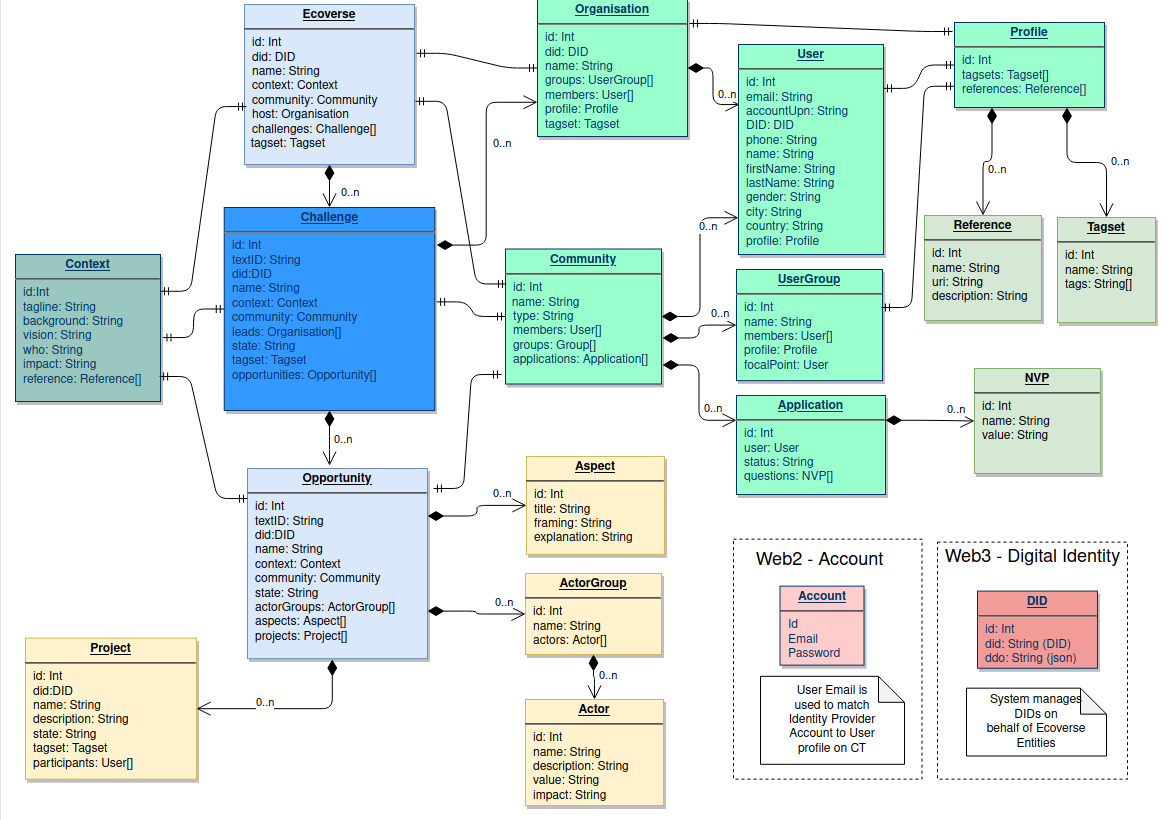
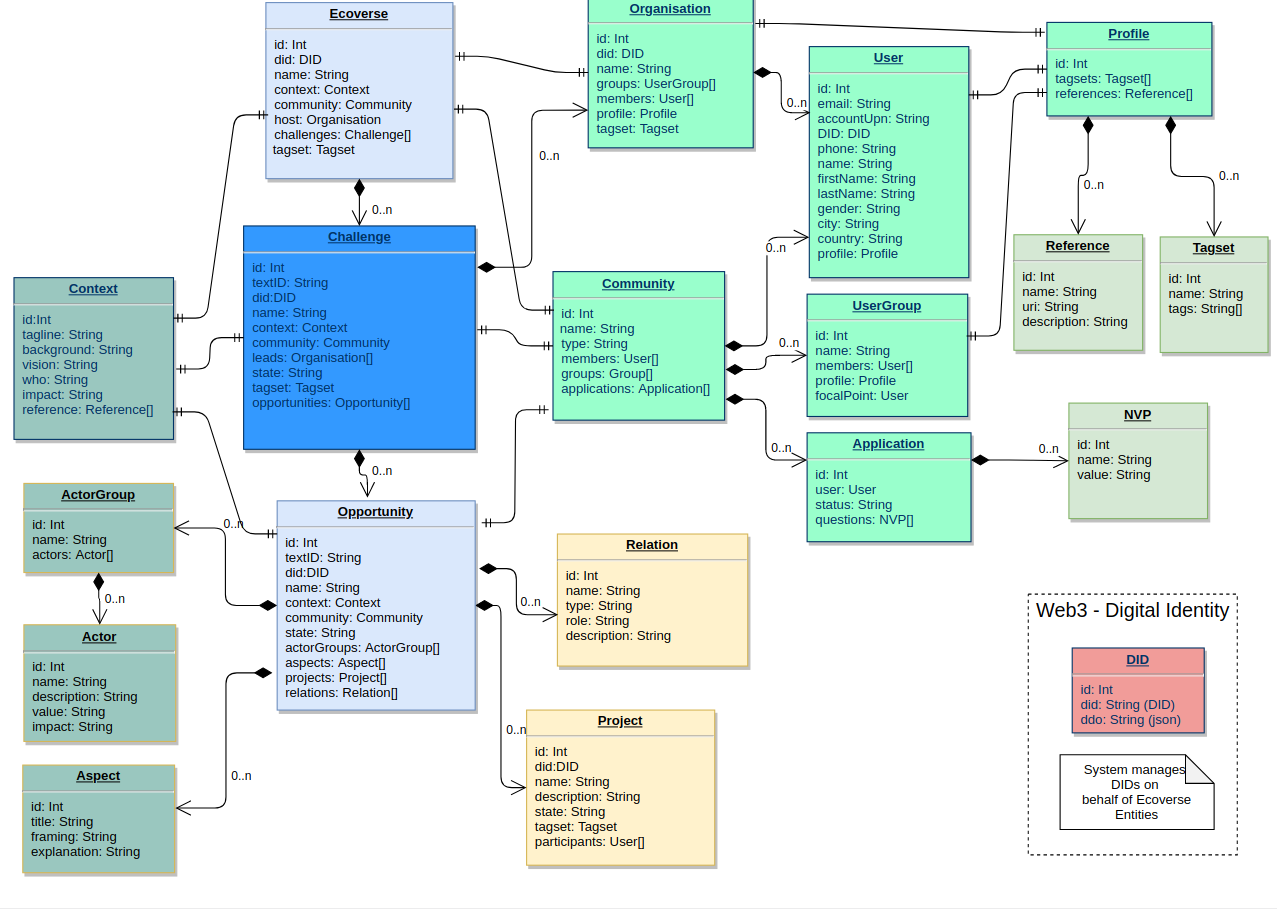
refresh of the technical design

Changed region(s): [[0.0, 0.0, 1.0, 1.0], [0.7993, 0.6402, 0.9838, 0.9451], [0.6456, 0.6707, 0.7686, 0.9451]]

diff --git a/docs/technical-design.md b/docs/technical-design.md
@@ -1,5 +1,5 @@
 # Cherrytwist - Technical Design Introduction
-This document provides an introduction to the technical design for Cherrytwist. It is still evolving and input is very welcome. It is assumed that the reader has already read the [Conceptual Design](./conceptual-design.md) document. 
+This document provides an introduction to the technical design for Cherrytwist. It is assumed that the reader has already read the [Conceptual Design](./conceptual-design.md) document. 
 
 The architecture is described along the following aspects:
 *   Design Principles
@@ -15,7 +15,7 @@ In some cases this document will also provide a rationale for decisions that hav
 
 The following high level choices guide the technical design:
 
-*   **Build for the future, but expose in familiar ways**
+*   **Build for a decentralized future, but expose in familiar ways**
     *   E.g. web 3 under the hood, but exposed using web 2.3 for the user
     *   Leverage latest proven technical solutions (e.g. SSI, Smart Contracts), but shield the end user from the technical complexity until ready
     *   This implies creating the platform with digital identities (SSI) for all entities in the system with associated wallets etc, but that this is all kept internal to the platform in first versions.
@@ -36,102 +36,58 @@ The following high level choices guide the technical design:
 
 It is worth noting that some of these choices, especially regarding the Ecoverse Host role in mediating regulated value exchange & trust, are made in the context of getting a first version of Cherrytwist deployable. The expectation is fully that these aspects can be decentralised as the platform and wider context within which it is used matures - and indeed the architecture is set up to ensure that this is feasible in an incremental manner.
 
-
-# Users: Accounts, Identities & Access Management
-
-This section describes the user model that is used for all interactions with Cherrytwist.  
-
-
-## User 
-
-One of the key challenges faced by Cherrytwist is how to combine the different user / access management approaches implied from classical web deployments versus those from Self Sovereign Identity (SSI) approaches. 
-
-To manage this duality, the core entity that is reflected in Cherrytwist is the **User**, which then combines both a web2 as well as a web3 ways of interacting. This is reflected in the following terminology:
-*   **Account**: Initially, all interactions with the Cherrytwist platform require an account. This is the Web2 pattern familiar to most end users
-*   **Identity**: All users of Cherrytwist also have a Self Sovereign Identity (SSI) created on their behalf. This identity can then further have artifacts such as wallets that the identity controls, and can interact with other web3 artifacts such as smart contracts. The identity is initially largely invisible to Users.
-
-At a high level this then implies that ![drawing](./images/design-web2-web3.png)
-
-This can also be seen as putting a web2 layer around a web3 core. Critically, all identities (SSI) created by the platform are managed by the platform on behalf of the user i.e. acting as a proxy for actions authorised by the user via their Account. The goal is to have these identities held outside of the platform - but that is in itself a journey with multiple steps on the way.
-
-Worth noting that this hybrid approach also allows platform users to leverages some of the benefits of Self Sovereign Identity (SSI) such as pairwise unique identifiers etc for peer interactions, albeit with the Ecoverse as a trusted party until that trust role is decentralised. 
-
-
-## User Group
-
-Users can be groups into a sets using the concept of a UserGroup. A UserGroup can then have a focal point identified that would have a special role within that group of users.
-
-
-## Web2 Access Management
-
-The operation and management of the initial version of Cherrytwist is primarily via web2, for which the following applies:
-*   **Account**: interactions with CT require an account. There are multiple types of accounts:
-    *   User Account: natural person
-    *   Service Account: for services / bots that interact with the system.
-*   **Security Role**: is a set permission policies that determines what an Account can and cannot do in CT (i.e. authorisation). A role is intended to be assumable by any CT Account who needs it assigned. 
-*   **Security Group**: is associated with a specific User Group, and can have one or more Security Roles assigned. Each user in the associated User Group automatically inherits these roles.
-
-
-## Web3 Identities
-
-A subset of the entities within CT have DID’s associated with them. These are the long running, and potentially independent actors in the system i.e.
-*   Ecoverse
-*   Users
-*   Organisations
-*   Challenges
-*   Opportunities
-*   Projects
-
-As aspects of SSI mature the intention is to allow more of the platform interaction and management to be carried out using SSI mechanisms e.g. claims, signing etc. 
-
 # Logical Data Model
+
+The goal of the Cherrytwist platform is to manage the shared representation of Challenges and to faciliate collaboration within the context of those Challenges. To support this, the platform has a *logical data model* for storing the shared representation and for facilitating the collaboration. 
 
 The following diagram shows at a high level the key entities in use within Cherrytwist:
 
-![Logical Data Model](./images/design-logical-data-model.png)
+<p>
+<img src="images/design-logical-data-model.png" alt="Logical Data Model" width="600" />
+</p>
 
-This logical data model attempts to keep to a minimum, at least initially, the set of entities that are represented in the platform, while still being able to reflect the types described in the conceptual design. The rationale for this is to avoid bringing in implicit context from known deployments of Challenges. 
+This logical data model attempts to keep to a minimum, at least initially, the set of entities that are represented in the platform, while still being able to reflect the types described in the conceptual design. The rationale for this is to keep the approach as general as possible, allowing further innovation how Challenges are managed. 
 
 The key entities in the model are:
-*   **Ecoverse**: The root entity, which has an associated hosting organisation.
-*   Community Entities:
+*   **Challenge:**
+    * **Ecoverse**: the hosting environment for the Challenges, which has an associated hosting organisation. 
+    * **Challenge**: the Challenge itself, including the shared understanding, community and tracked collaboratin. 
+    * **Opportunity**: a potential significant step towards the desired outcomes of the Challenge. Likely that multiple Opportunities are identified in the context of the Challenge, each with their own lifecycle & that need to be ranked / prioritised. 
+*   **Community**:
     *   **User**: The primary way of interacting with the platform    
     *   **UserGroup**: To allow the aggregation of users into groups, which may or may not have a focal point that is in charge of the group
-    *   **Organisation**: To reflect legal entities that interact with the platform via one or more users. 
-*   Challenge related Entities
-    * **Challenge**: the shared goal / vision. Progress towards the goal will require multiple stakeholders collaborating on a non-trivial journey, building up understanding, community and resources as the journey progresses.
-    * **Opportunity**: a potential significant step towards the shared goal. Likely that multiple Opportunities are identified in the context of the Challenge, each with their own lifecycle & that need to be ranked / prioritised. 
-        * **ActorGroups**: The different groups of actors who are identified and/or engaged in realising this Opportunity
-        * **Aspects**: The aspects to solutions for this Opportunity
+    *   **Organisation**: To reflect legal entities that interact with the platform via one or more users.   
+    *   **Profile**: a shared entity across Users, UserGroups and Organisations to represent their Profile in a consistent way. It manages the avatar of the entity, tagsets giving meta-data about the entity (e.g. industry, skill sets, intersts) and references for links related to the entity (e.g. website of an organisation, linkedin profile for a user etc)
+*   **Context**: 
+    * **Context**: The shared understanding, at either Ecoverse or Challenge level. 
+    * **ActorGroups + Actors**: The different groups of actors who are identified and/or engaged
+    * **Aspects**: The aspects to solutions being worked on in the context of the Challenge
+*   **Collaboration**: 
     * **Project**: a defined outcome, formalised as an agreement between parties collaborating in the context an Opportunity. Potentially multiple projects needed to deliver an Opportunity.
-*   **Context**: The shared understanding, at either Ecoverse or Challenge level. 
-*   **Web 2 Account**: A web2 based account that allows a user to interact with the platform in a familiar manner. A user can login if there is a known user whose email matches the email for the Account from the Identity Provider.
-*   **SSI**: Self Sovereign Identity (SSI) entities
+    * **Relation**: an interaction to be tracked between two Users / Organisations / Groups related to a particular aspect (e.g. Opportunity) within the platform
+*   **Agents (SSI)**: 
     * **DID**: the persistent decentralised identifier as per W3C standard
     * **DDO**: The document describing the DID, with roles etc. 
-* **Template**: a template is a set of entity definitions that are used by an Ecoverse. For example holding different types of users (i.e. what tagsets are expected on a user and what value selection is allowed). 
 
-To facilitate flexible usages of this data model, most key entities have either a **Tagsets** or a **Profile** (containing multiple Tagsets) associated with them, allowing for easy filtering + connecting
+To facilitate flexible usages of this data model, most key entities have **Tagsets** associated with them, allowing for easy filtering + connecting
 *   Tags allow for a fairly unstructured entity relationship model to be used in a variety of ways.
-*   There are likely to be a variety of tag sorts in use: user profiles, ecoverse tags (e.g. partner), host tags (crew) etc. 
+*   Tags are held in Tagsets that are named collections of Tags. 
 
 There is also a *physical data model* that is how the logical data model is stored in the underlying datastore. However for using the system that should be hidden from normal usage.
-
 
 # Logical Design
 
 The logical layers to the Cherrytwist architecture:
-*   **Interaction**: for the interfaces used by the users as they interact within the context of an Ecoverse / Challenge
+*   **Clients**: the actual devices being used to interact by the users 
+*   **Interaction**: the user experiences being provided to Users as they interact within the context of an Ecoverse / Challenge
 *   **Server**: for managing all aspects of the Ecoverse & Challenge lifecycle
-*   **Data Storage**: for storing the persistent data related to challenges
-*   **Smart Contract Platform**: for executing of agreements
 
 The layering is shown in the following diagram:
+<p>
+<img src="images/design-interactions.png" alt="Design interaction layers" width="600" />
+</p>
 
-![Logical Layers](./images/design-layers.png "design layers")
-
-
-### Interaction
+## Interaction (aka user interfaces)
 
 The server maintains the long term representation of the Challenge, with which users interact in many different ways over the lifecycle of the Challenge. As such the primary goal of the Interaction Layer is to ensure that many different types of interactions are feasible, while of course also allowing easy adoption of the platform via one or more reference user interfaces.
 
@@ -143,7 +99,7 @@ Examples types of interactions:
 
 For the initial version of Cherrytwist, the focus will be on extending an existing UX / Web framework to be able to expose and represent visually the information maintained with Cherrytwist. 
 
-The frontend layer will be in charge of the following responsibilities:
+The interaction layer will be in charge of the following responsibilities:
 *   Login/Sign up via SSO
 *   Ecoverse navigation
 *   Challenge navigation
@@ -151,26 +107,24 @@ The frontend layer will be in charge of the following responsibilities:
 *   Connecting within the community
 *   (later) Navigating / connecting between Ecoverses that have established trust relationships.
 
-The frontend will be a stateless application and will communicate with the backend application via GraphQL API.
-
-### User Interaction
-As the Ecoverse Template (see later) will vary between Ecoverses, this implies that the user interface presented will also need to be tailored to the particular Ecoverse - so that it is aware of the user groups, challenge information etc.
-
+The interaction layer will typically be a stateless application and will communicate with the backend application via GraphQL API.
 
 ## Server
 
 The core of Cherrytwist, facilitating all other aspects of the platform. The core sub-components are shown in the following diagram. 
 
-![Server Components](./images/design-server-components.png "server components")
+<p>
+<img src="images/design-server-components.png" alt="Server Components" width="600" />
+</p>
+
 
 All interactions with the Server are via a set of APIs / services exposed by the platform, and actions are authorised based on the account associated with the user.
-* **Accounts & Access Handler**: This is likely in the first instance to be based on a hosted service such as Azure Active Directory.
+* **Authentication & Authorisation**: Supporting multiple Authentication Providers, and managing User authorisation once they have a valid session. 
 * **GraphQL API**: This is the interface to the platform for all data exchange. 
 * **Storage Handler**: To manage the different types of storage to be used by the platform. Manage the different platform identities (users, ecoverse, challenges, projects, teams, etc)
 * **Identity, Wallets & Smart Contracts Handler**: Typically DIDs are stored as part of a users or identity registry in a decentralized network as part of a Smart Contract state. To reduce the potential dependency with an external blockchain network it could be possible to store the DID and DDO in the general purpose database where the key is the DID and the value is the DDO content. Similarly, initially wallets associated with an identity would be stored in the database but could be later moved to another type of storage. 
 
-
-## Data Storage
+### Data Storage
 
 The artifacts managed by the server need to be safely and securely managed by the server. The following are key artifacts to be stored by the platform:
 *   **Entities from the data model** i.e. Ecoverse, Challenges & Project state
@@ -180,21 +134,58 @@ The artifacts managed by the server need to be safely and securely managed by th
 
 The following locations are identified for the storage of data associated with Cherrytwist:
 *   **Database**: for the data and the relationships between the entities, metadata etc. This could be relational or NoSQL based.
+*   **Content Addressable Storage (CAS)**: for any images or documents that should be stored in a content addressable (CAS) way, whereby the data is also potentially distributed (resilience etc). Primarily used for now as a Content Distribution Network (CDN).
 *   **Ledger**: for smart contracts, and transfer of value. The smart contracts can cover a variety of usages on the platform e.g. execution of projects, digital identities & the definition / control of any tokens created by the Ecoverse.
-*   **IPFS**: for any documents that should be stored in a content addressable way (CAS), whereby the data is also potentially distributed (resilience etc). 
 *   **Vault**: For management of keys in a readily accessible but secure way. 
     *   Note: it may be that later users of the platform would want to store value that would warrant usage of cold storage, but the expectation is that this would be done leveraging a third party service. 
 
-The first versions of the platform will likely leverage the Database primarily, with other options added in due course. 
+The platform currently has both Database and CAS available - additional storage mechanisms will be added as needed later. 
 
 
-## Smart Contract Platform
+# Interacting: Users, Agents, Authentication & Authorisation
 
-In order to manage agreements via smart contracts, a smart contract platform will be deployed as part of the architecture. 
+This section describes the user model that is used for all interactions with Cherrytwist. Key is that this interaction model can work with both existing web paradigms as well as emerging Self Sovereign Identity (SSI) approaches.
 
-Initially this smart contract platform will be private, so relying on the Ecoverse host for the state of the platform. Solutions such as Quorum or other private Ethereum based chains are likely in order to be able to leverage the wide set of capabilities and infrastructure currently available. 
+## Users
+Each User of the platform has a their own profile, which then governs their interactions with the platform. 
 
-Later it should be possible to integrate either with public chains based on Ethereum or alternative smart contract platforms as makes sense. 
+## Agents
+Each User of the platform, and each entity such as a Challenge or Opportunity, have SSI _Agents_ that the platform manages on their behalf. 
+
+Each Agent can then further have artifacts such as wallets that it controls, and can interact on behalf of the user / entity with other elements of the platform. The usage of Agents is currently largely invisible to Users - but it is critical to setup the platform from the start with Agent based interaction patterns to enable moving more decentralized later.
+
+Critically, all identities (SSI) created by the platform are managed by the platform on behalf of the user i.e. acting as a proxy for actions authorised by the user via their Account. The goal is to have these identities held outside of the platform - but that is in itself a journey with multiple steps on the way.
+
+Worth noting that this hybrid approach also allows platform users to leverages some of the benefits of Self Sovereign Identity (SSI) such as pairwise unique identifiers etc for peer interactions, albeit with the Ecoverse as a trusted party until that trust role is decentralised. 
+
+As aspects of SSI mature the intention is to allow more of the platform interaction and management to be carried out using SSI mechanisms e.g. claims, signing etc. 
+
+The ideal scenario for Users is that ultimately they can have their own SSI that can then control the Agents managed by the platform - or replace the platform Agents. 
+
+## Authentication Providers
+To authenticate users, the platform uses the concept of Authentication Providers. An Authentication Provider has the sole responsibility of authenticating users - so that upon authentication the platform knows exactly which User has logged in.
+
+The currently supported Authentication Providers are:
+* Azure Active Directory (AAD) - a production, enterprise class Identity Provider from Microsoft.
+* Demo Authentication Provider - a non-production authentication provider to show the capabilities of the platform in a lightweight way.
+
+This design is chosen so that in the future users can also authenticate using their own SSI - a topic of [very active development](https://identity.foundation/did-siop/) in the SSI community. 
+
+## Authorisation
+Once a User is authenticated, then the platform needs to know what they are authorised to do on the platform.
+
+The current implementation relies on assigning users to one of a number of roles. The currently supported Ecoverse level roles are:
+* Member
+* Community-admin
+* Ecoverse-admin
+* Global-admin
+
+Users inherit these roles by being members of User Groups at the Ecoverse level.
+
+There is fine grained control on the GraphQL mutations (api calls) from the Cherrytwist Server based on the roles that the users is assigned. 
+
+However in order to ensure the platform is decentralised, having authorisation managed centrally is not an option. As such the goal is to move towards a model whereby authorisation is based on claims / credentials held by the Agent acting on behalf of a User. 
+
 
 
 # Configuration & Deployment
@@ -214,8 +205,7 @@ The Cherrytwist platform is initially deployed in an “empty” state, without 
 *   Community admin: able to manage users, existing user groups, membership of security groups, etc
 *   Members: able access to the full query api. Able to see details of the challenges that the user is a member of. Able to edit their own user profile.
 
-The platform can have a single Ecoverse deployed onto it. 
-
+The platform is currently limited to have a single Ecoverse deployed onto it. 
 
 ## Populating an Ecoverse
 This section describes the steps and supporting entities for working with an Ecoverse. 
@@ -238,7 +228,9 @@ The template setup is currently only used for holding User profile setup data, b
 
 The evolution of the Ecoverse instance from deploying a template and then instantiating a challenge is shown below:
 
-![Template deployment](./images/design-templates.png "Template deployment")
+<p>
+<img src="images/design-templates.png" alt="Template deployment" width="600" />
+</p>
 
 #### Challenge, Project & User Group Templates
 
@@ -246,17 +238,11 @@ Further, the following entities will have enhanced templating support:
 *   Challenge Template
 *   Opportunity Template
 *   Project Template
-*   User Group Template
+*   Community Template
 
 In particular the Project Template is likely to have multiple variations possible to reflect the multiple ways a project may want to be executed. An Opportunity Lead would then select a template to use when launching the challenge.
 
 These additional templates may be part of the Ecoverse Template or uploaded later, and they initially all require the “global admin” role.
 
-
-### Exportable & Uploadable Representation
-
-In addition to supporting the usage of Templates, the platform also needs to be able to export and import fully defined Challenges. These should reference a Challenge Template that they are based on and then provide the actual data to be populated into that Challenge instance. 
-
-Typically this would be used during the formation of an Ecoverse when Challenge data is being migrated from another environment, or between ecoverses. 
 
 
